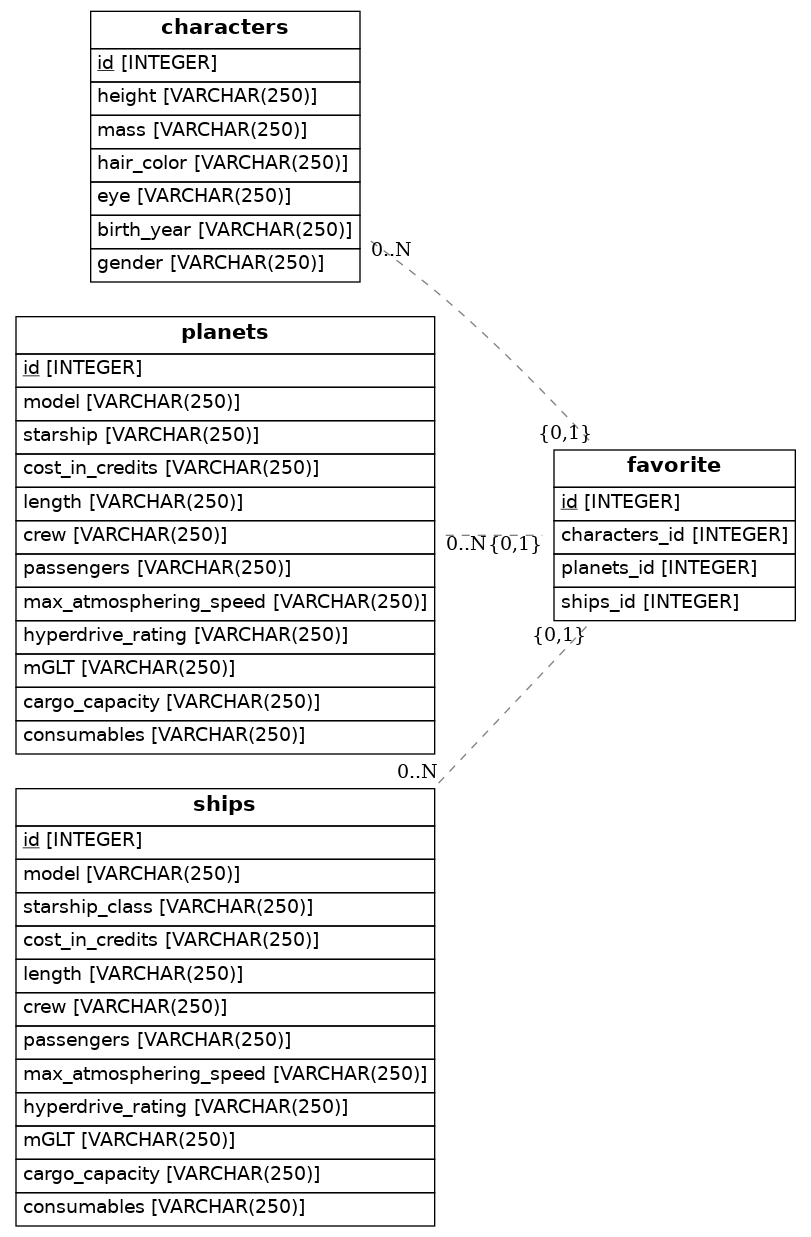
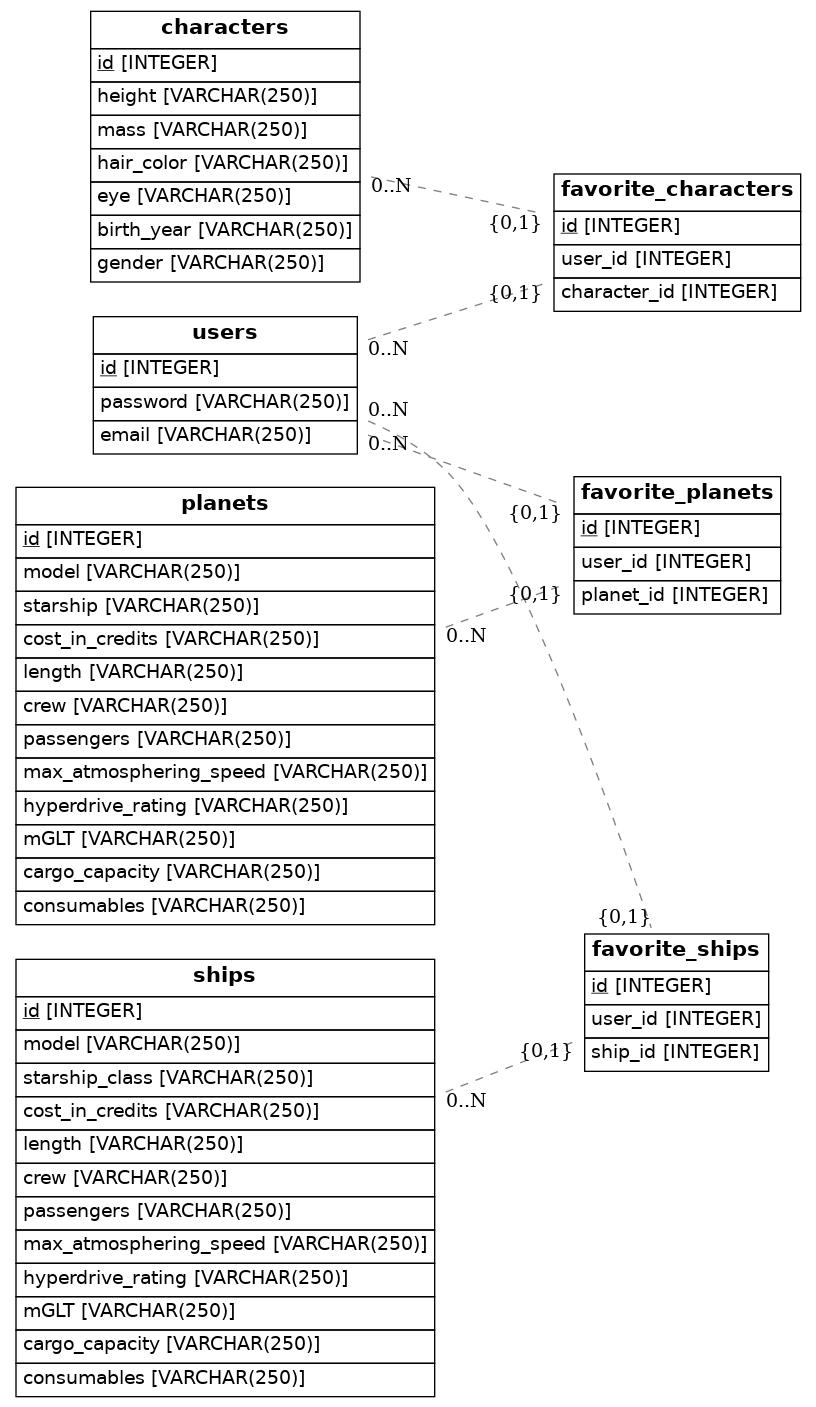
modificcion de tablas de muchos a muchos

Changed region(s): [[0.0, 0.0, 0.9864, 1.0], [0.6473, 0.6451, 0.9556, 0.768], [0.6165, 0.1229, 0.9864, 0.215]]

diff --git a/src/models.py b/src/models.py
@@ -8,16 +8,39 @@ from eralchemy import render_er
 
 Base = declarative_base()
 
-class Favorite(Base):
-    __tablename__ = 'favorite'
+class User(Base):
+    __tablename__ = 'users'
     # Here we define columns for the table person
     # Notice that each column is also a normal Python instance attribute.
     id = Column(Integer, primary_key=True)
-    characters_id = Column(Integer, ForeignKey('characters.id'))
-    planets_id= Column(Integer, ForeignKey('planets.id'))
-    ships_id= Column(Integer, ForeignKey('ships.id'))
+    password = Column(String(250))
+    email = Column(String(250))
+
+class Favorite_characters(Base):
+    __tablename__ = 'favorite_characters'
+    # Here we define columns for the table person
+    # Notice that each column is also a normal Python instance attribute.
+    id = Column(Integer, primary_key=True)
+    user_id = Column(Integer, ForeignKey('users.id'))
+    character_id= Column(Integer, ForeignKey('characters.id'))
+
+class Favorite_planets(Base):
+    __tablename__ = 'favorite_planets'
+    # Here we define columns for the table person
+    # Notice that each column is also a normal Python instance attribute.
+    id = Column(Integer, primary_key=True)
+    user_id = Column(Integer, ForeignKey('users.id'))
+    planet_id= Column(Integer, ForeignKey('planets.id'))
     
-class Characters(Base):
+class Favorite_ships(Base):
+    __tablename__ = 'favorite_ships'
+    # Here we define columns for the table person
+    # Notice that each column is also a normal Python instance attribute.
+    id = Column(Integer, primary_key=True)
+    user_id = Column(Integer, ForeignKey('users.id'))
+    ship_id= Column(Integer, ForeignKey('ships.id'))
+
+class Character(Base):
     __tablename__ = 'characters'
     # Here we define columns for the table address.
     # Notice that each column is also a normal Python instance attribute.
